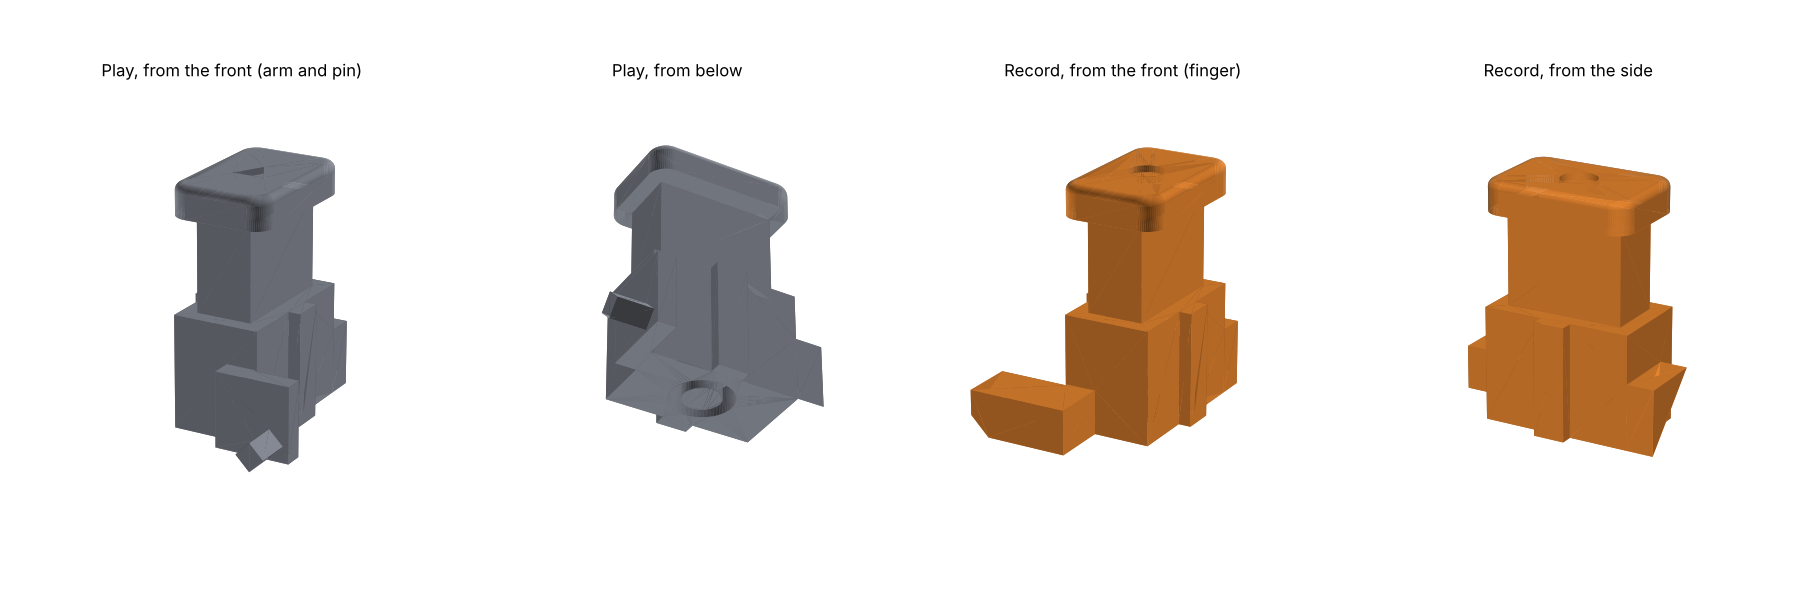
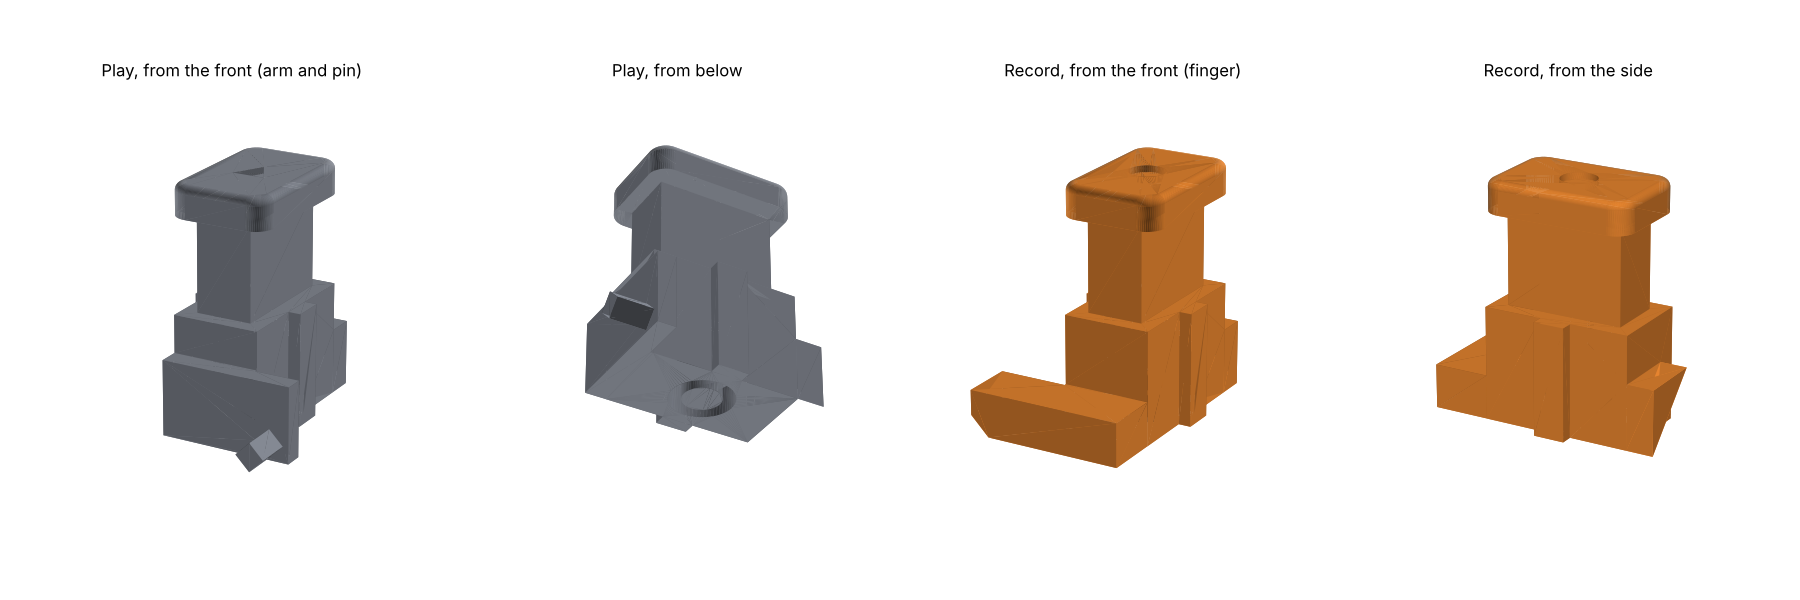
CTRL-01: Record's finger and Play's arm span the key's whole front face
Michael: no reason not to run them all the way across. The nearest fin is
0.15 mm beyond the face edge, so the joint can cover the full 7 mm width:
24 mm^2 (finger) and 42 mm^2 (arm). Joint gate raised to 20 mm^2. 72 rig
gates pass, clash sweep included.

Claude-Session: https://claude.ai/code/session_01J1L91HqoLUAyQ2riHuRPFW

diff --git a/hardware/prototypes/ctrl-01/mech.py b/hardware/prototypes/ctrl-01/mech.py
@@ -181,8 +181,8 @@ def key_local(name: str, raise_: float | None = None, flip: bool = False) -> cq.
 
 
 FRONT_CLR = 0.2     # finger and arm stay this far in front of the keys' front plane (the fins' edge)
-JOIN_Y = 1.0        # front-zone features join the key across its front face from |y'| = 1.0 ...
-JOIN_EDGE = 3.4     # ... out to here, inside the key's own outline, where no fin can be
+JOIN_EDGE = 3.49    # front-zone features span the key's whole front face (|y'| <= 3.5); the
+                    # nearest fin starts at 3.65, so the joint never reaches a fin
 ARM_H = 6.0         # Play's arm, z' extent (taller than the finger: it carries the pin)
 
 
@@ -196,22 +196,22 @@ def _root(y0: float, y1: float, h: float) -> cq.Workplane:
 
 def _finger() -> cq.Workplane:
     """Record's finger: reaches into the gap in front of the keys and lands on the
-    blocker. It starts over the key's own front face, so it joins the key across
-    2.4 x 3.5 mm. Its tip's inner corner is bevelled so a returning blocker pushes
+    blocker. It spans the key's whole front face, so it joins the key across
+    7 x 3.5 mm. Its tip's inner corner is bevelled so a returning blocker pushes
     it up rather than jamming."""
     x0, x1 = L.FINGER_Z[0] - L.KEY_Z, L.FINGER_Z[1] - L.KEY_Z - FRONT_CLR
-    y0, y1 = JOIN_Y, 9.0
-    f = _box(x0, x1, y0, y1, 0, 3.5).union(_root(JOIN_Y, JOIN_EDGE, 3.5))
+    y0, y1 = -JOIN_EDGE, 9.0
+    f = _box(x0, x1, y0, y1, 0, 3.5).union(_root(-JOIN_EDGE, JOIN_EDGE, 3.5))
     bevel = _prism_yz([(y1 - 1.5, -0.01), (y1 + 0.01, -0.01), (y1 + 0.01, 1.51)], x0 - 1, x1 + 1)
     return f.cut(bevel)
 
 
 def _arm_and_pin() -> cq.Workplane:
     """Play's arm and the square pin (turned 45 degrees) that drives the blocker.
-    The arm starts over the key's own front face and joins it across 2.4 x 6 mm."""
+    The arm spans the key's whole front face and joins it across 7 x 6 mm."""
     x0, x1 = L.ARM_Z[0] - L.KEY_Z, L.ARM_Z[1] - L.KEY_Z - FRONT_CLR
     py = L.PIN_Y - L.key_y("play")
-    arm = _box(x0, x1, py - 1.6, -JOIN_Y, 0, ARM_H).union(_root(-JOIN_EDGE, -JOIN_Y, ARM_H))
+    arm = _box(x0, x1, py - 1.6, JOIN_EDGE, 0, ARM_H).union(_root(-JOIN_EDGE, JOIN_EDGE, ARM_H))
     pz = L.KEY_BOTTOM - L.PIN_X_REST
     r = L.PIN_SIDE / math.sqrt(2)
     diamond = [(py - r, pz), (py, pz - r), (py + r, pz), (py, pz + r)]

diff --git a/hardware/prototypes/ctrl-01/test_rig.py b/hardware/prototypes/ctrl-01/test_rig.py
@@ -198,7 +198,7 @@ def test_slot_clearances_are_as_specified():
 
 # --- front-zone features are properly joined to their keys ---------------------------
 
-MIN_JOINT = 6.0      # mm^2
+MIN_JOINT = 20.0     # mm^2: the joint spans the key's whole front face
 
 
 def test_record_finger_and_play_arm_are_joined_across_the_key_face():

diff --git a/hardware/prototypes/ctrl-01/README.md b/hardware/prototypes/ctrl-01/README.md
@@ -147,7 +147,7 @@ cd hardware/prototypes/ctrl-01 && python3 -m pytest -q        # about 2 minutes
 | Plates fit the 180 × 180 bed | — |
 | Plain slots take every card; rib slots grip every card; slot clearances are as specified | — |
 | The detent takes card C into its notch | card A, which has no notch, clashes with the bump |
-| Record's finger and Play's arm join their keys across ≥ 6 mm² of the key face (8.4 and 14.4) | the 27 Oct defect: an arm hanging on a 0.01 mm strip |
+| Record's finger and Play's arm span their key's whole front face and join it across ≥ 20 mm² (24 and 42) | the 27 Oct defect: an arm hanging on a 0.01 mm strip |
 
 Numbers that come from the printer, not this code: key slide 0.15 mm a side, spring
 holes and bosses (FIT-01); the P preference (LADDER-01/02). The latch simulation is
@@ -167,14 +167,14 @@ the check that `key_v1.py` rebuilt it exactly.
 | File | SHA-256 |
 |---|---|
[15 lines of base64/hex data omitted]
